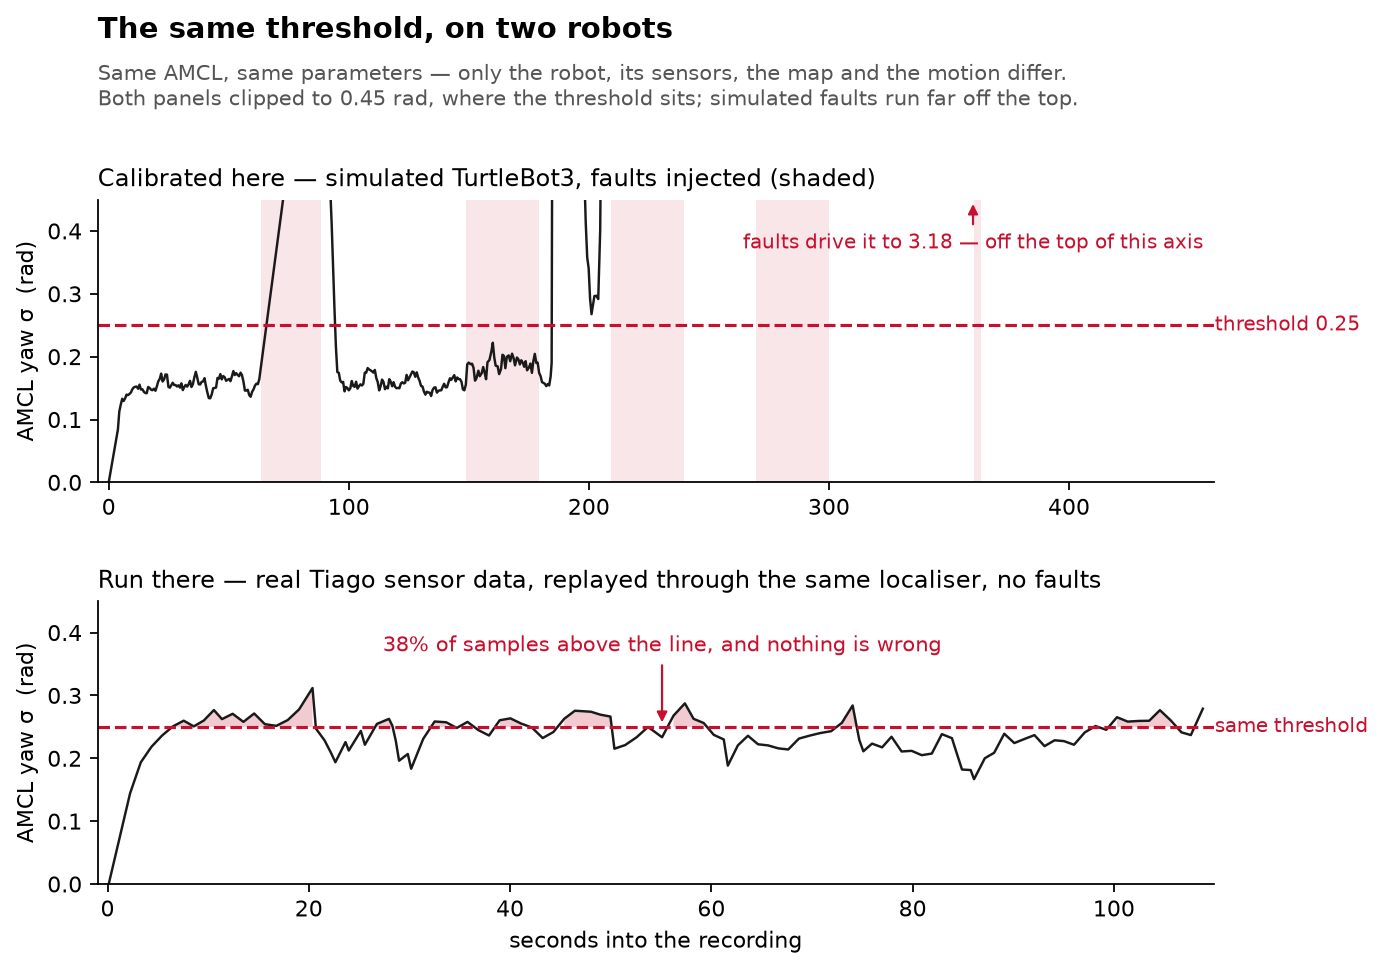
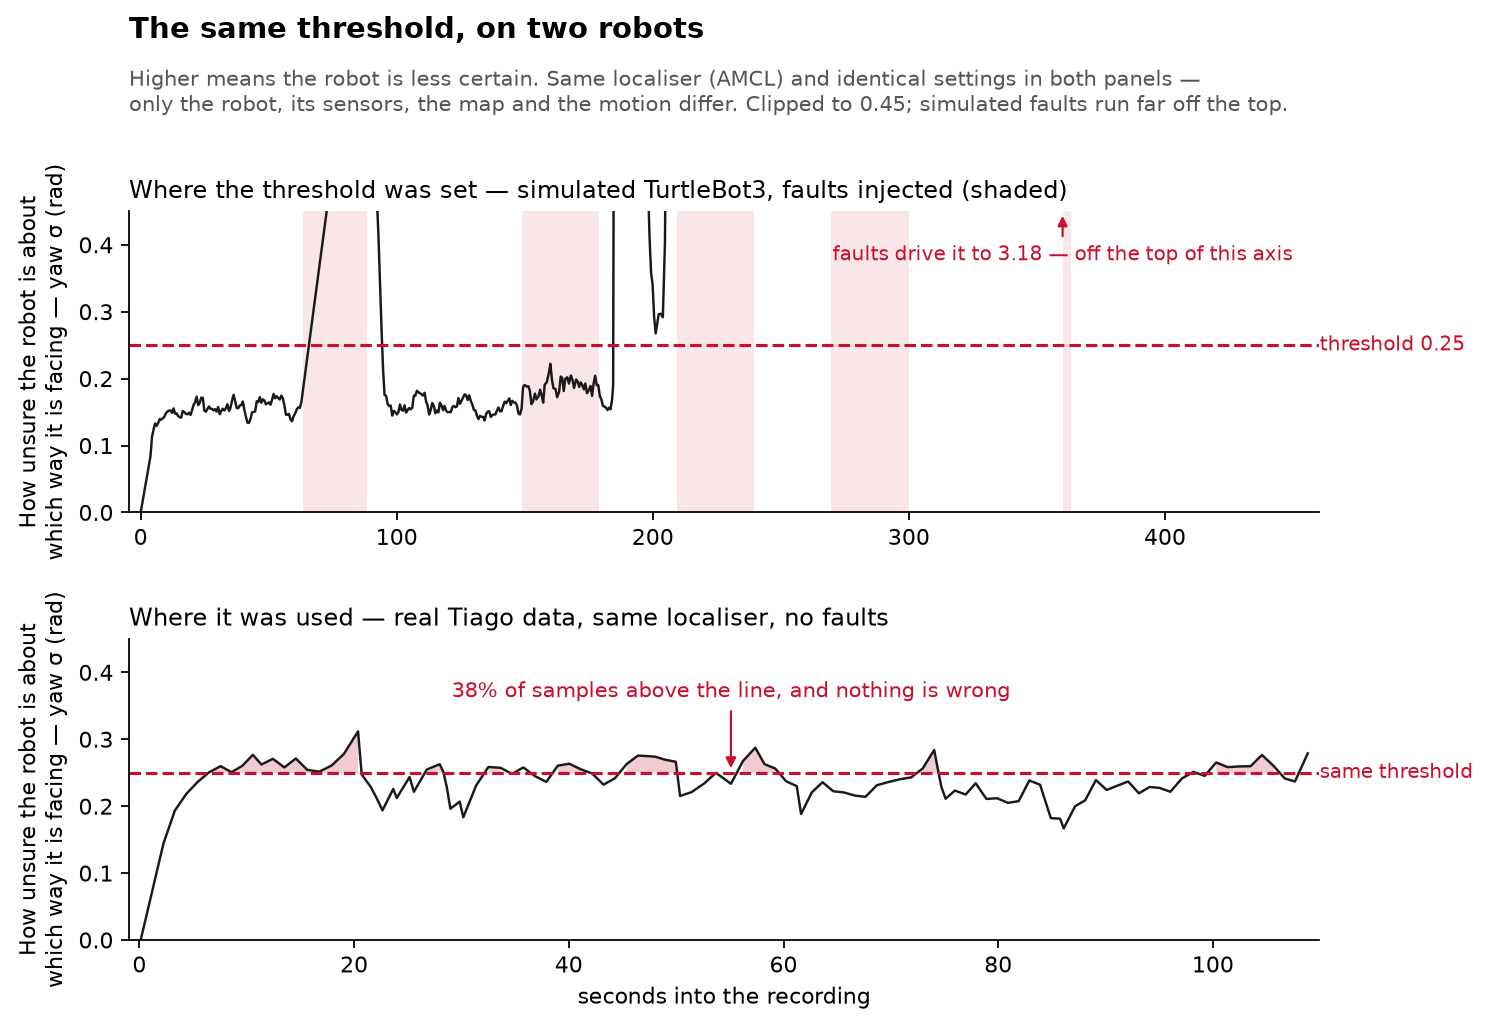
Rewrite both figures for a reader outside the speciality
A comprehension review run before drafting, against a non-roboticist and a
roboticist, found the second figure's title and subtitle the hardest thing in the
piece: 'predicting the null result' names the point in research jargon, and
neither word is the point. It is now 'the smallest position jump the detector can
possibly catch', with the rate stated (about 30 updates a second) rather than
left as a division the reader performs.

Axis labels lead with the quantity in plain words and keep the technical term in
the tail, so a roboticist's eye lands on 'yaw σ (rad)' and skips the gloss. A
figure gets screenshotted and quoted without its paragraph, so it has to stand
alone.

Same review caught a real error in the prose, fixed in the draft: σ is a standard
deviation, not a covariance -- the covariance is σ² in rad².

Changed region(s): [[0.0, 0.1548, 0.9942, 0.5573], [0.0, 0.5882, 0.9942, 0.9907], [0.0621, 0.0, 0.8699, 0.1238]]

diff --git a/sim/plot_ladder.py b/sim/plot_ladder.py
@@ -1,0 +1,74 @@
+"""The sensitivity floor was derived, not discovered.
+
+/tf publishes about every 33 ms, so a displacement of X metres implies X*30 m/s.
+Against a 0.35 m/s threshold that puts the detection floor near 12 mm -- and the
+three injected step sizes were chosen around it, with each one's expected outcome
+written down before the recording existed.
+
+Usage: plot_ladder.py <out.png>
+"""
+from __future__ import annotations
+
+import sys
+
+import matplotlib
+matplotlib.use("Agg")
+import matplotlib.pyplot as plt  # noqa: E402
+import numpy as np  # noqa: E402
+
+TF_PERIOD_S = 0.0332
+THRESHOLD = 0.35
+STEPS_MM = np.array([5.0, 12.0, 100.0])
+DECLARED = ["too small to catch", "borderline", "should be caught"]
+OBSERVED = [None, 0.54, 2.83]   # peak implied speed where the detector fired
+FLOOR_MM = THRESHOLD * TF_PERIOD_S * 1000
+
+
+def main() -> None:
+    out = sys.argv[1]
+    fig, ax = plt.subplots(figsize=(9, 5.6))
+
+    x = np.geomspace(2, 200, 200)
+    ax.plot(x, x / 1000 / TF_PERIOD_S, color="#888", lw=1.2, ls=":",
+            label=f"predicted speed = jump size × {1/TF_PERIOD_S:.0f} per second")
+    ax.axhline(THRESHOLD, color="#c8102e", lw=1.4, ls="--")
+    ax.axvline(FLOOR_MM, color="#1a6fb5", lw=1.2)
+    ax.axvspan(2, FLOOR_MM, color="#1a6fb5", alpha=0.07, lw=0)
+
+    for mm, decl, obs in zip(STEPS_MM, DECLARED, OBSERVED):
+        if obs is None:
+            ax.scatter([mm], [THRESHOLD * 0.42], marker="x", s=90, color="#444", zorder=5)
+            ax.annotate(f"{mm:.0f} mm\nsaid in advance: {decl}\nnothing reported",
+                        xy=(mm, THRESHOLD * 0.42), xytext=(0, 16), textcoords="offset points",
+                        ha="center", fontsize=9, color="#444")
+        else:
+            ax.scatter([mm], [obs], s=70, color="#1a1a1a", zorder=5)
+            ax.annotate(f"{mm:.0f} mm\nsaid in advance: {decl}\nflagged at {obs:.2f} m/s",
+                        xy=(mm, obs), xytext=(0, 14), textcoords="offset points",
+                        ha="center", fontsize=9)
+
+    ax.set_xscale("log"); ax.set_yscale("log")
+    ax.set_xlim(2, 200); ax.set_ylim(0.04, 12)
+    ax.set_xlabel("size of the injected position jump  (mm)")
+    ax.set_ylabel("speed that jump implies  (m/s)")
+    ax.text(FLOOR_MM * 0.92, 0.055, f"jumps under {FLOOR_MM:.0f} mm can never fire",
+            color="#1a6fb5", fontsize=9.5, ha="right")
+    ax.text(190, THRESHOLD, "threshold 0.35 m/s ", color="#c8102e", fontsize=9, ha="right", va="bottom")
+    ax.spines[["top", "right"]].set_visible(False)
+    ax.legend(frameon=False, loc="lower right", fontsize=9)
+
+    fig.suptitle("The smallest position jump the detector can possibly catch",
+                 x=0.09, y=1.16, ha="left", fontsize=13, weight="bold")
+    fig.text(0.09, 1.045,
+             "The detector flags a jump only if it implies a speed above 0.35 m/s. Position updates arrive "
+             "about 30 times a second,\nso a 1 mm jump implies 0.03 m/s and a 12 mm jump implies 0.35 — "
+             "exactly the cut-off. All three jump sizes and their\nexpected outcomes were written into the "
+             "recording script before the run.",
+             ha="left", fontsize=9.5, color="#555")
+    fig.subplots_adjust(top=0.86)
+    fig.savefig(out, dpi=160, bbox_inches="tight")
+    print(f"wrote {out}  (floor {FLOOR_MM:.1f} mm)")
+
+
+if __name__ == "__main__":
+    main()

diff --git a/sim/plot_transfer.py b/sim/plot_transfer.py
@@ -55,15 +55,16 @@ def main() -> None:
     # line at the bottom, which hides the entire point: that its ordinary noise
     # straddles the line. Clipped peaks are annotated rather than silently cropped.
     YMAX = 0.45
-    fig, (ax1, ax2) = plt.subplots(2, 1, figsize=(9, 6.2), sharey=True)
+    fig, (ax1, ax2) = plt.subplots(2, 1, figsize=(9.6, 6.6), sharey=True)
     fig.subplots_adjust(hspace=0.42, top=0.80)
 
     for w in truth(sim):
         ax1.axvspan(w["t_begin"], w["t_end"], color="#c8102e", alpha=0.10, lw=0)
     ax1.plot(st, sv, lw=1.1, color="#1a1a1a")
     ax1.axhline(THRESHOLD, color="#c8102e", lw=1.4, ls="--")
-    ax1.set_title("Calibrated here — simulated TurtleBot3, faults injected (shaded)", loc="left", fontsize=11)
-    ax1.set_ylabel("AMCL yaw σ  (rad)")
+    ax1.set_title("Where the threshold was set — simulated TurtleBot3, faults injected (shaded)",
+                  loc="left", fontsize=11)
+    ax1.set_ylabel("How unsure the robot is about\nwhich way it is facing — yaw σ (rad)")
     ax1.set_ylim(0, YMAX)
     ax1.text(st[-1], THRESHOLD, f"  threshold {THRESHOLD}", va="center", fontsize=9, color="#c8102e")
     over = sv > YMAX
@@ -76,9 +77,9 @@ def main() -> None:
     ax2.plot(rt, rv, lw=1.1, color="#1a1a1a")
     ax2.axhline(THRESHOLD, color="#c8102e", lw=1.4, ls="--")
     ax2.fill_between(rt, THRESHOLD, rv, where=(rv > THRESHOLD), color="#c8102e", alpha=0.22, lw=0)
-    ax2.set_title("Run there — real Tiago sensor data, replayed through the same localiser, no faults",
+    ax2.set_title("Where it was used — real Tiago data, same localiser, no faults",
                   loc="left", fontsize=11)
-    ax2.set_ylabel("AMCL yaw σ  (rad)")
+    ax2.set_ylabel("How unsure the robot is about\nwhich way it is facing — yaw σ (rad)")
     ax2.set_xlabel("seconds into the recording")
     ax2.set_ylim(0, YMAX)
     ax2.text(rt[-1], THRESHOLD, f"  same threshold", va="center", fontsize=9, color="#c8102e")
@@ -90,8 +91,9 @@ def main() -> None:
 
     fig.suptitle("The same threshold, on two robots", x=0.125, y=0.985, ha="left", fontsize=13, weight="bold")
     fig.text(0.125, 0.895,
-             "Same AMCL, same parameters — only the robot, its sensors, the map and the motion differ.\n"
-             "Both panels clipped to 0.45 rad, where the threshold sits; simulated faults run far off the top.",
+             "Higher means the robot is less certain. Same localiser (AMCL) and identical settings in both "
+             "panels —\nonly the robot, its sensors, the map and the motion differ. Clipped to 0.45; simulated "
+             "faults run far off the top.",
              ha="left", fontsize=9.5, color="#555")
     for ax in (ax1, ax2):
         ax.spines[["top", "right"]].set_visible(False)
